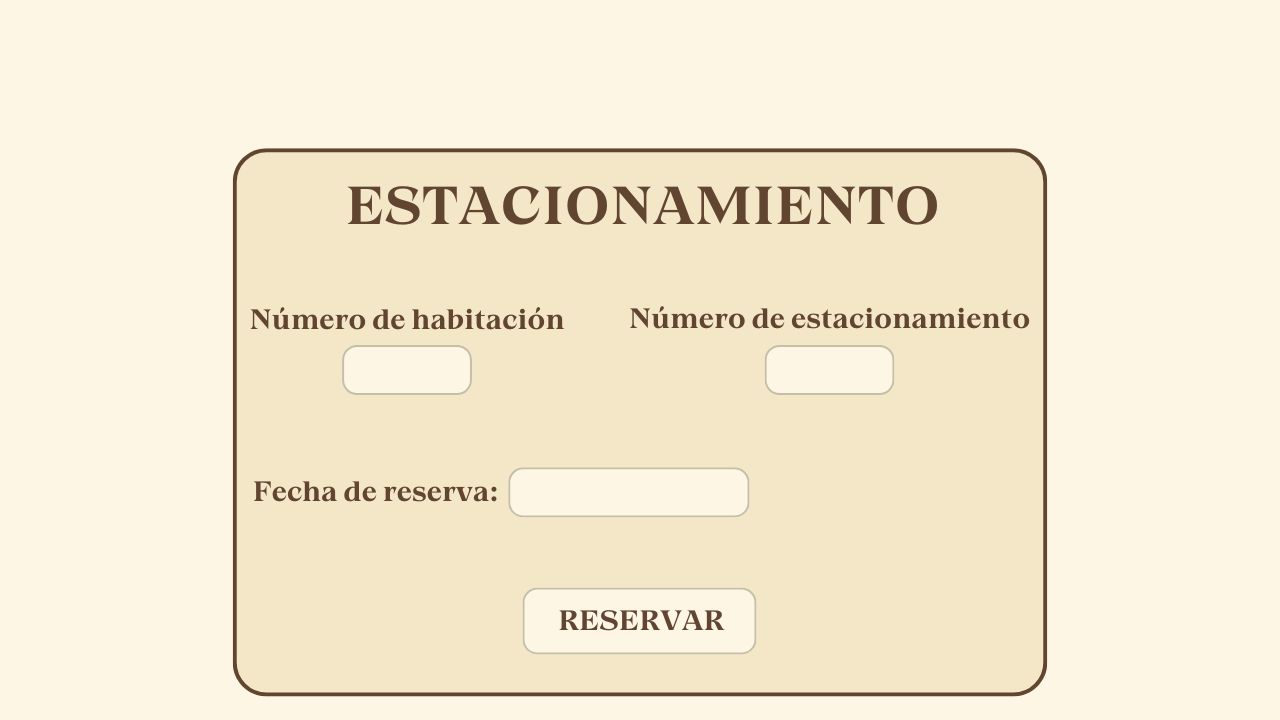
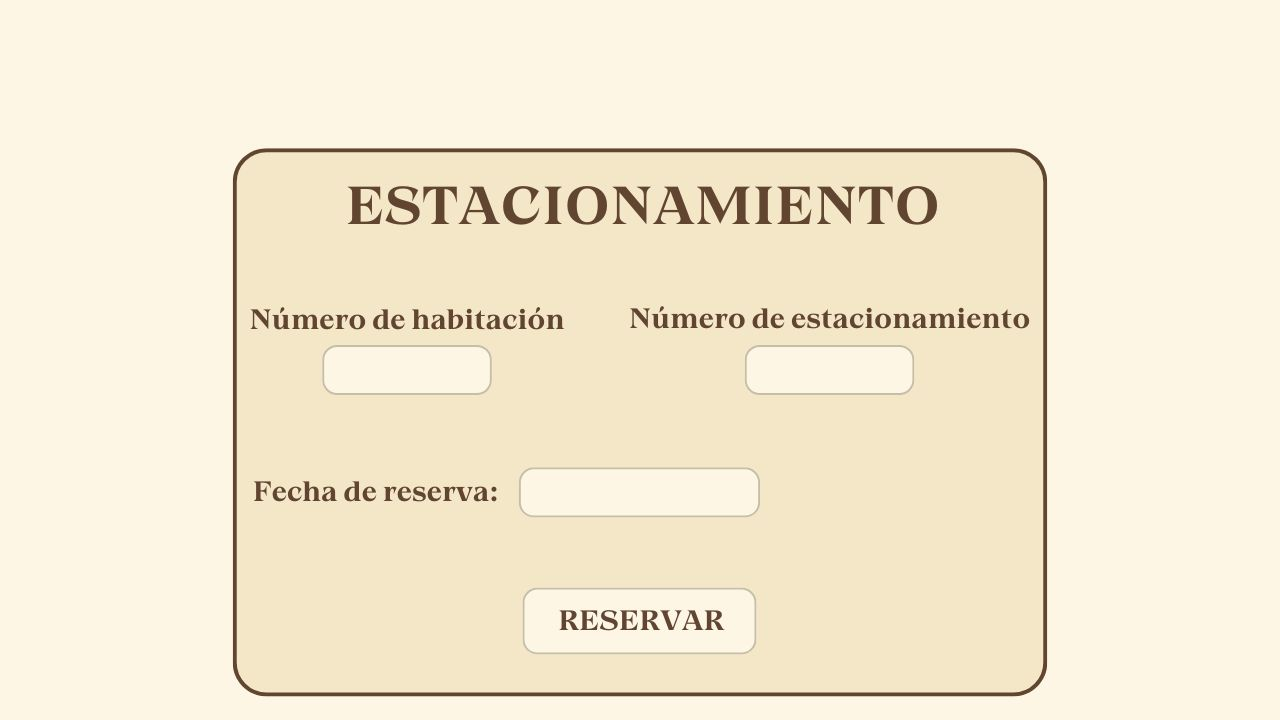
rtdt

diff --git a/main2.py b/main2.py
@@ -275,30 +275,30 @@ def cursor(mouse_pos,alter_usuario):
 
     elif fondo_actual[0] == "menu parking":
 
-        if fondo_actual[1] == 28:
-
-            if mouse_pos[0] < 490 and mouse_pos[0] > 260 and mouse_pos[1] < 656 and mouse_pos[1] > 579: #ver registros        
-                            
-                pygame.mouse.set_cursor(pygame.SYSTEM_CURSOR_HAND) 
-                    
-
-            elif mouse_pos[0] < 757 and mouse_pos[0] > 522 and mouse_pos[1] < 656 and mouse_pos[1] > 579:#notificar ingreso        
-                            
-                pygame.mouse.set_cursor(pygame.SYSTEM_CURSOR_HAND) 
-                        
-
-            elif mouse_pos[0] < 1018 and mouse_pos[0] > 784 and mouse_pos[1] < 656 and mouse_pos[1] > 579:#cancelar reserva de parking        
-                            
-                pygame.mouse.set_cursor(pygame.SYSTEM_CURSOR_HAND) 
-            
-
-        if mouse_pos[0] < 757 and mouse_pos[0] > 522 and mouse_pos[1] < 656 and mouse_pos[1] > 579:#Reservar        
+        if mouse_pos[0] < 757 and mouse_pos[0] > 522 and mouse_pos[1] < 656 and mouse_pos[1] > 579 and len(VerNumeroEstacionamiento(usuario)) == pagina:#Reservar        
                             
             pygame.mouse.set_cursor(pygame.SYSTEM_CURSOR_HAND) 
+
+        if mouse_pos[0] < 490 and mouse_pos[0] > 260 and mouse_pos[1] < 656 and mouse_pos[1] > 579: #ver registros        
+                        
+            pygame.mouse.set_cursor(pygame.SYSTEM_CURSOR_HAND) 
+                
+
+        elif mouse_pos[0] < 757 and mouse_pos[0] > 522 and mouse_pos[1] < 656 and mouse_pos[1] > 579:#notificar ingreso        
+                        
+            pygame.mouse.set_cursor(pygame.SYSTEM_CURSOR_HAND) 
+                    
+
+        elif mouse_pos[0] < 1018 and mouse_pos[0] > 784 and mouse_pos[1] < 656 and mouse_pos[1] > 579:#cancelar reserva de parking        
+                        
+            pygame.mouse.set_cursor(pygame.SYSTEM_CURSOR_HAND) 
+        
+        
+       
             
 
         elif mouse_pos[0] < 1225 and mouse_pos[0] > 1130 and mouse_pos[1] < 462 and mouse_pos[1] > 306:#flecha derecha   
-            if len(VerNumeroEstacionamiento(usuario)) > 0: #abigail
+            if len(VerNumeroEstacionamiento(usuario)) > 0: 
                     if texto2[1] != (VerNumeroEstacionamiento(usuario).pop( 0 )) or pagina != (len(VerNumeroEstacionamiento(usuario))):
                         if pagina != (len(VerNumeroEstacionamiento(usuario))):
                             pygame.mouse.set_cursor(pygame.SYSTEM_CURSOR_HAND)
@@ -519,19 +519,19 @@ def cursor(mouse_pos,alter_usuario):
     
     elif fondo_actual[0] == "pagar tarjeta":
 
-        if mouse_pos[0] < 996 and mouse_pos[0] > 441 and mouse_pos[1] < 314 and mouse_pos[1] > 268: #Nombre del titular
+        if mouse_pos[0] < 1022 and mouse_pos[0] > 485 and mouse_pos[1] < 305 and mouse_pos[1] > 270: #Nombre del titular
             pygame.mouse.set_cursor(pygame.SYSTEM_CURSOR_IBEAM)
 
-        elif mouse_pos[0] < 996 and mouse_pos[0] > 441 and mouse_pos[1] < 379 and mouse_pos[1] > 335: #VOLVER
+        elif mouse_pos[0] < 1022 and mouse_pos[0] > 485 and mouse_pos[1] < 375 and mouse_pos[1] > 335: #Numero de tarjeta
             pygame.mouse.set_cursor(pygame.SYSTEM_CURSOR_IBEAM)    
 
-        elif mouse_pos[0] < 996 and mouse_pos[0] > 364 and mouse_pos[1] < 448 and mouse_pos[1] > 404: #Vencimiento
+        elif mouse_pos[0] < 1018 and mouse_pos[0] > 485 and mouse_pos[1] < 445 and mouse_pos[1] > 405: #Documento
             pygame.mouse.set_cursor(pygame.SYSTEM_CURSOR_IBEAM)  
 
-        elif mouse_pos[0] < 996 and mouse_pos[0] > 465 and mouse_pos[1] < 516 and mouse_pos[1] > 471: #Codigo de seguridad
+        elif mouse_pos[0] < 737 and mouse_pos[0] > 485 and mouse_pos[1] < 515 and mouse_pos[1] > 475: #Vencimiento
             pygame.mouse.set_cursor(pygame.SYSTEM_CURSOR_IBEAM)  
 
-        elif mouse_pos[0] < 996 and mouse_pos[0] > 486 and mouse_pos[1] < 584 and mouse_pos[1] > 542: #Documento
+        elif mouse_pos[0] < 740 and mouse_pos[0] > 483 and mouse_pos[1] < 584 and mouse_pos[1] > 542: #Codigo de seguridad
             pygame.mouse.set_cursor(pygame.SYSTEM_CURSOR_IBEAM)  
 
         elif mouse_pos[0] < 1128 and mouse_pos[0] > 906 and mouse_pos[1] < 665 and mouse_pos[1] > 605: #Pagar
@@ -1412,6 +1412,7 @@ while running:
                                 if posicion_cuadrado_reserva == ( 877, 413, 41 , 41 ):       
                                     alter_mouse = True                         
                                     fondo_actual[0] = "menu parking"
+                                    ReservarEstacionamiento(usuario, texto3[1])
                                     texto_seleccionado = [(-100,-100),""]
                                     reset_textos(texto1, texto2, texto3, texto4, texto5, texto6, texto7, texto8) 
 
@@ -1623,50 +1624,54 @@ while running:
 
 
                 elif fondo_actual[0] == "menu parking":
-                    if mouse_pos[0] < 490 and mouse_pos[0] > 260 and mouse_pos[1] < 656 and mouse_pos[1] > 579 and alter_mouse == False: #ver registros        
-                        
-                        fondo_actual[0] = "registros"
-                        fondo_actual[1] = 27
-                        texto_seleccionado = [(-100,-100),""]
-                        reset_textos(texto1, texto2, texto3, texto4, texto5, texto6, texto7, texto8) 
-                        alter_mouse = True
-                                
 
-                    elif mouse_pos[0] < 757 and mouse_pos[0] > 522 and mouse_pos[1] < 656 and mouse_pos[1] > 579 and alter_mouse == False:#notificar ingreso
-                        if fondo_actual[1] != 28:     
-                            if TieneEstacionamiento(usuario)[0]:          
-                                NotificarIngresoEgreso(VerNumeroEstacionamiento(usuario).pop( -1 - pagina )) 
-                            else: 
-                                print ("El usuario no tiene un estacionamiento del cual notificar ingreso/egreso.")
+                    if len(VerNumeroEstacionamiento(usuario) ) != pagina:   
+
+                        if mouse_pos[0] < 490 and mouse_pos[0] > 260 and mouse_pos[1] < 656 and mouse_pos[1] > 579 and alter_mouse == False: #ver registros        
+                            
+                            fondo_actual[0] = "registros"
+                            fondo_actual[1] = 27
+                            texto_seleccionado = [(-100,-100),""]
+                            reset_textos(texto1, texto2, texto3, texto4, texto5, texto6, texto7, texto8) 
                             alter_mouse = True
-                        else:
+                                    
+
+                        elif mouse_pos[0] < 757 and mouse_pos[0] > 522 and mouse_pos[1] < 656 and mouse_pos[1] > 579 and alter_mouse == False:#notificar ingreso
+                                        
+                            NotificarIngresoEgreso(VerNumeroEstacionamiento(usuario).pop( -1 - pagina )) 
+                            alter_mouse = True
+
+                            
+                                    
+
+                        elif mouse_pos[0] < 1018 and mouse_pos[0] > 784 and mouse_pos[1] < 656 and mouse_pos[1] > 579 and alter_mouse == False:#cancelar reserva de parking                 
+                            CancelarReservaEstacionamiento( usuario , VerNumeroEstacionamiento(usuario).pop( -1 - pagina ) )
+                            alter_mouse = True
+            
+                       
+                    else:            
+                        if mouse_pos[0] < 757 and mouse_pos[0] > 522 and mouse_pos[1] < 656 and mouse_pos[1] > 579 and alter_mouse == False: #ReservarEstacionamiento(usuario)
                             print ("Reservar estacionamiento")
                             servicio_pagar = "Estacionamiento" 
                             reset_textos(texto1, texto2, texto3, texto4, texto5, texto6, texto7, texto8) 
                             fondo_actual[0] = "pagar servicio"
                             fondo_actual[1] = 5
-                            #ReservarEstacionamiento(usuario)
-                                
+                            alter_mouse = True
 
-                    elif mouse_pos[0] < 1018 and mouse_pos[0] > 784 and mouse_pos[1] < 656 and mouse_pos[1] > 579 and alter_mouse == False:#cancelar reserva de parking        
-                        if TieneEstacionamiento(usuario)[0]:           
-                            CancelarReservaEstacionamiento( usuario , VerNumeroEstacionamiento(usuario).pop( -1 - pagina ) )
-                        else: 
-                            print ("El usuario no tiene un estacionamiento del cual cancelar la reserva.")
-                        alter_mouse = True
-        
-                    elif mouse_pos[0] < 1225 and mouse_pos[0] > 1130 and mouse_pos[1] < 462 and mouse_pos[1] > 306 and alter_mouse == False:#flecha derecha   
-                        if len(VerNumeroEstacionamiento(usuario)) > 0: #abigail
+
+                    if mouse_pos[0] < 1225 and mouse_pos[0] > 1130 and mouse_pos[1] < 462 and mouse_pos[1] > 306 and alter_mouse == False:#flecha derecha   
+                        if len(VerNumeroEstacionamiento(usuario)) > 0: 
                             if texto2[1] != (VerNumeroEstacionamiento(usuario).pop( 0 )) or pagina != (len(VerNumeroEstacionamiento(usuario))):
                                 if pagina != (len(VerNumeroEstacionamiento(usuario))):
                                     pagina += 1
                                     alter_mouse = True
 
 
-                    elif mouse_pos[0] < 149 and mouse_pos[0] > 55 and mouse_pos[1] < 467 and mouse_pos[1] > 309 and alter_mouse == False:#flecha izquierda  
+                    if mouse_pos[0] < 149 and mouse_pos[0] > 55 and mouse_pos[1] < 467 and mouse_pos[1] > 309 and alter_mouse == False:#flecha izquierda  
                         if len(VerNumeroEstacionamiento(usuario)) > 0 and texto2[1] != VerNumeroEstacionamiento(usuario).pop( -1 ):    
                             pagina -= 1
                             alter_mouse = True
+                    
 
                 
                 elif fondo_actual[0] == "menu mantenimiento" and alter_mouse == False:
@@ -1766,45 +1771,47 @@ while running:
 
                 elif fondo_actual[0] == "pagar tarjeta" and alter_mouse == False:
 
-                    if mouse_pos[0] < 996 and mouse_pos[0] > 441 and mouse_pos[1] < 314 and mouse_pos[1] > 268: #Nombre del titular
+                    if mouse_pos[0] < 1022 and mouse_pos[0] > 485 and mouse_pos[1] < 305 and mouse_pos[1] > 270: #Nombre del titular
                         alter_mouse = True
                         texto_ingresado = texto1[1]
                         texto_seleccionado = texto1 #Usuario / iniciar sesion   
                         barra = texto_seleccionado[1] + "|"  
                         ultimo_cambio_barra  = pygame.time.get_ticks()                   
-                        limite = 28
+                        limite = 27
 
-                    elif mouse_pos[0] < 996 and mouse_pos[0] > 441 and mouse_pos[1] < 379 and mouse_pos[1] > 335: #VOLVER
+                    elif mouse_pos[0] < 1022 and mouse_pos[0] > 485 and mouse_pos[1] < 375 and mouse_pos[1] > 335: #Numero de tarjeta
                         alter_mouse = True
                         texto_ingresado = texto2[1]
                         texto_seleccionado = texto2 #Usuario / iniciar sesion   
                         barra = texto_seleccionado[1] + "|"  
                         ultimo_cambio_barra  = pygame.time.get_ticks()                   
-                        limite = 28   
+                        limite = 20 
 
-                    elif mouse_pos[0] < 996 and mouse_pos[0] > 364 and mouse_pos[1] < 448 and mouse_pos[1] > 404: #Vencimiento
+                
+                    elif mouse_pos[0] < 1018 and mouse_pos[0] > 485 and mouse_pos[1] < 445 and mouse_pos[1] > 405: #Documento
                         alter_mouse = True
                         texto_ingresado = texto3[1]
                         texto_seleccionado = texto3 #Usuario / iniciar sesion   
                         barra = texto_seleccionado[1] + "|"  
                         ultimo_cambio_barra  = pygame.time.get_ticks()                   
-                        limite = 32 
+                        limite = 8
 
-                    elif mouse_pos[0] < 996 and mouse_pos[0] > 465 and mouse_pos[1] < 516 and mouse_pos[1] > 471: #Codigo de seguridad
+                    
+                    elif mouse_pos[0] < 737 and mouse_pos[0] > 485 and mouse_pos[1] < 515 and mouse_pos[1] > 475: #Vencimiento
                         alter_mouse = True
                         texto_ingresado = texto4[1]
                         texto_seleccionado = texto4 #Usuario / iniciar sesion   
                         barra = texto_seleccionado[1] + "|"  
                         ultimo_cambio_barra  = pygame.time.get_ticks()                   
-                        limite = 27  
+                        limite = 8 
 
-                    elif mouse_pos[0] < 996 and mouse_pos[0] > 486 and mouse_pos[1] < 584 and mouse_pos[1] > 542: #Documento
+                    elif mouse_pos[0] < 740 and mouse_pos[0] > 483 and mouse_pos[1] < 584 and mouse_pos[1] > 542: #Codigo de seguridad
                         alter_mouse = True
                         texto_ingresado = texto5[1]
                         texto_seleccionado = texto5 #Usuario / iniciar sesion   
                         barra = texto_seleccionado[1] + "|"  
                         ultimo_cambio_barra  = pygame.time.get_ticks()                   
-                        limite = 25  
+                        limite = 3 
 
                     elif mouse_pos[0] < 1128 and mouse_pos[0] > 906 and mouse_pos[1] < 665 and mouse_pos[1] > 605: #Pagar
                         alter_mouse = True
@@ -2383,11 +2390,11 @@ while running:
 
         elif fondo_actual[0] == "pagar tarjeta":
             screen.blit (fondos[fondo_actual[1]] , (0 , 0))
-            texto1[0] = (448, 271)
-            texto2[0] = (448, 340)
-            texto3[0] = (372, 409)
-            texto4[0] = (471, 476)
-            texto5[0] = (494, 544)
+            texto1[0] = (489, 271)
+            texto2[0] = (489, 340)
+            texto3[0] = (489, 409)
+            texto4[0] = (489, 476)
+            texto5[0] = (489, 544)
             screen.blit( fuente.render(barra , True , (0,0,0) ), texto_seleccionado[0] )
             screen.blit(fuente.render(texto1[1], True, (0, 0, 0)), texto1[0])
             screen.blit(fuente.render(texto2[1], True, (0, 0, 0)), texto2[0])
